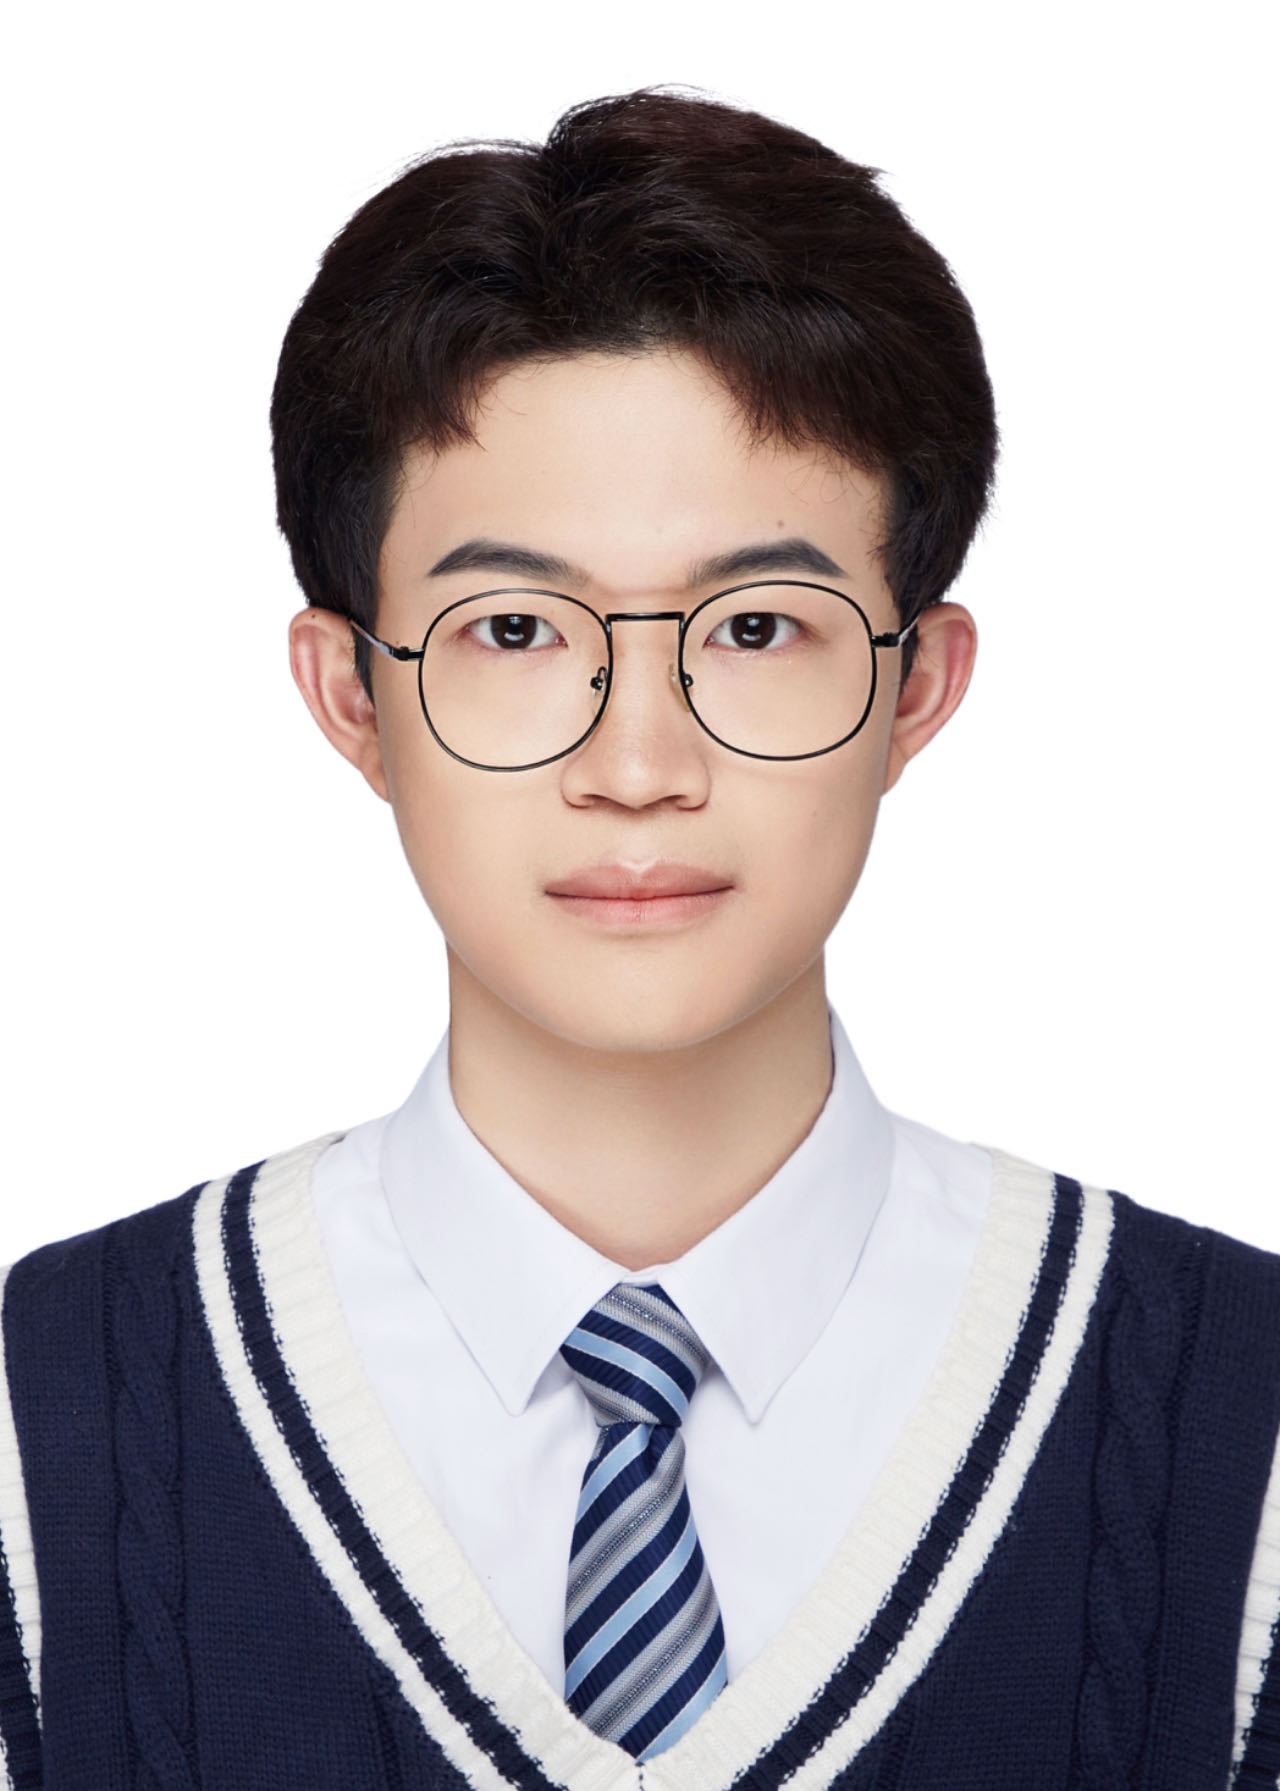
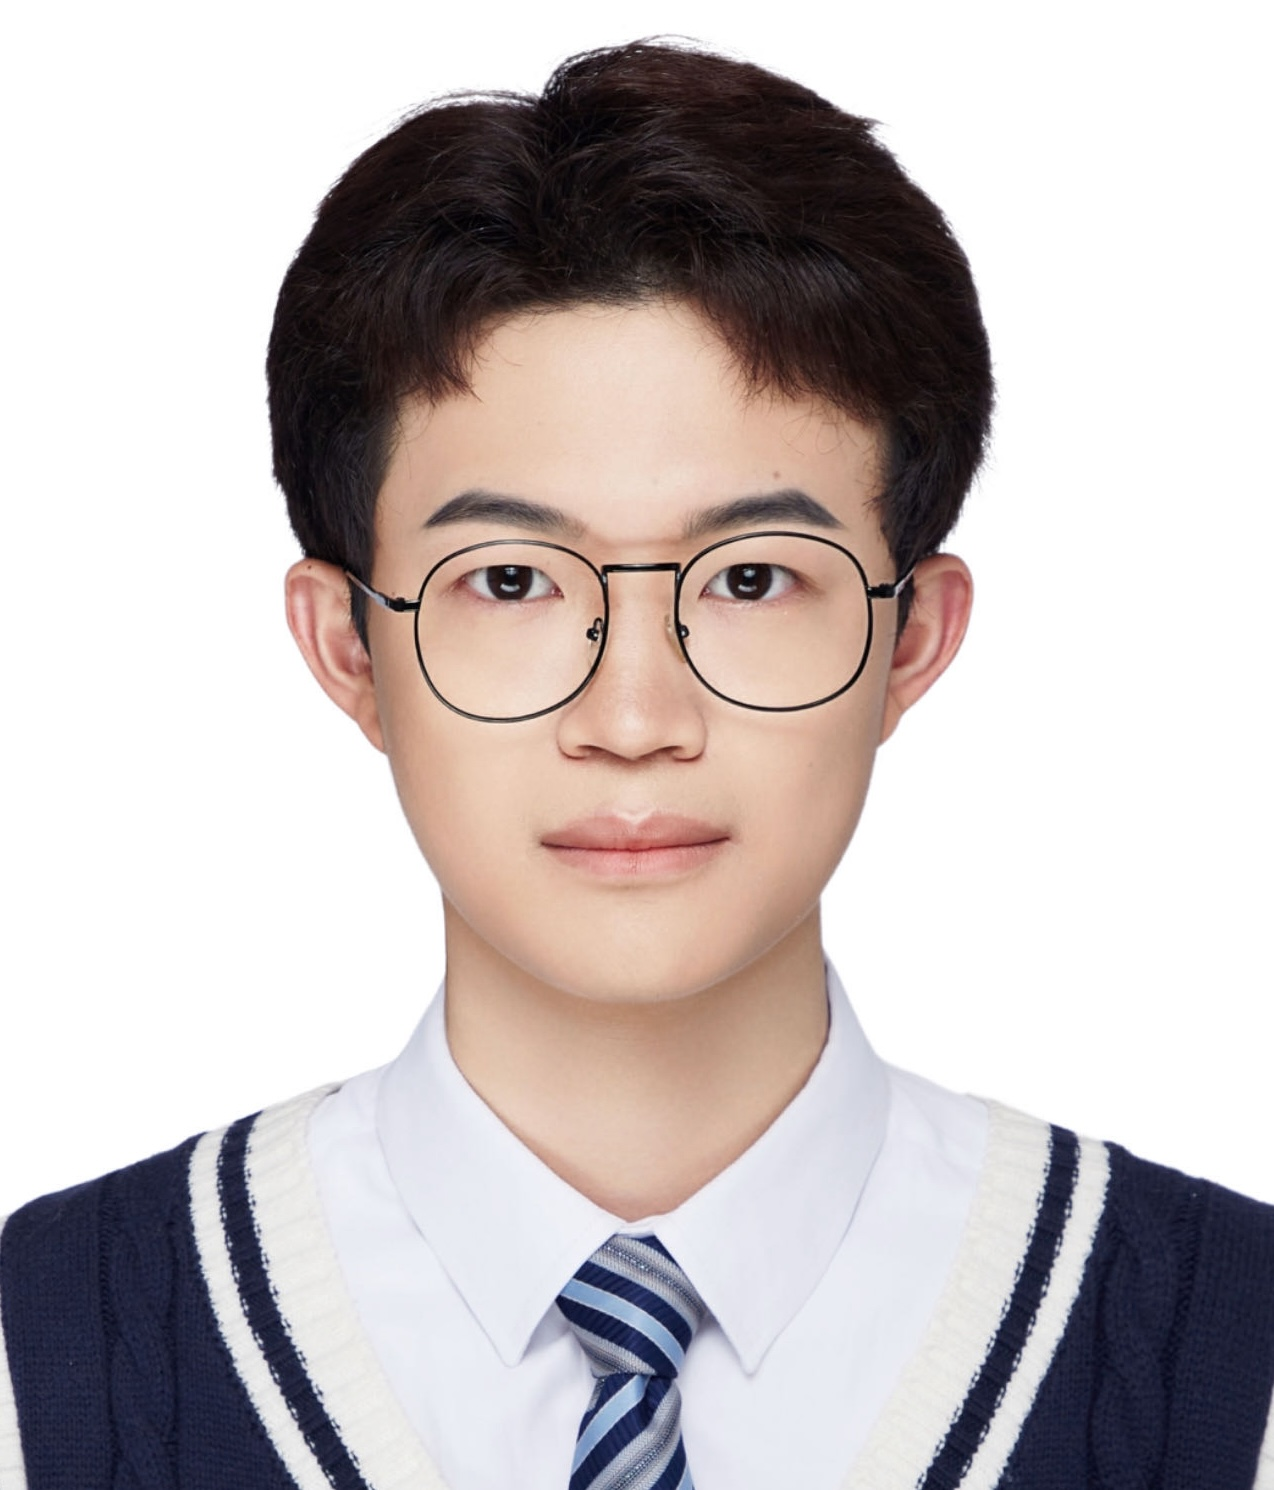
update

diff --git a/index.html b/index.html
@@ -57,7 +57,7 @@
                                         <!-- <a href="https://www.zhihu.com/people/ji-e-yi-zhu-jia-93">Zhihu</a> &nbsp -->
                                     </p>
                                 </td>
-                                <td style="padding:3.5%;width:50%;max-width:50%">
+                                <td style="padding:3.5%;width:40%;max-width:80%">
                                     <a href="images/Personal/portrait.jpg"><img style="width:100%;max-width:100%"
                                             alt="profile photo" src="images/Personal/portrait.jpg" class="hoverZoomLink"></a>
                                 </td>
